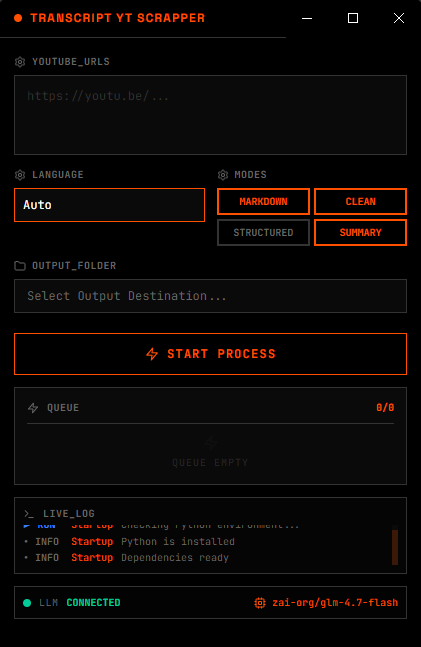
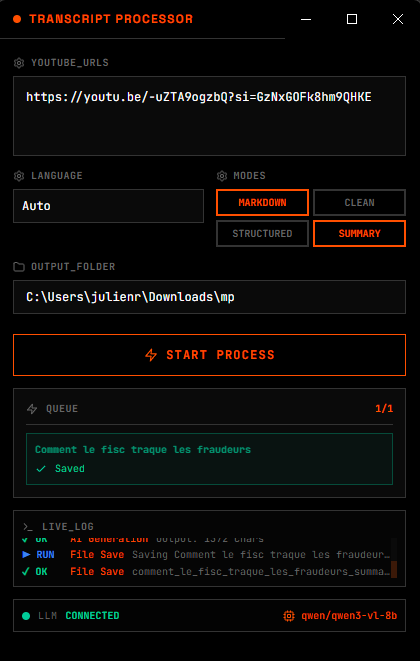
Update UI preview and increase window height

diff --git a/electron/main.ts b/electron/main.ts
@@ -288,7 +288,7 @@ async function ensurePythonDependencies() {
 function createWindow() {
     mainWindow = new BrowserWindow({
         width: 425,
-        height: 700,
+        height: 760,
         minWidth: 410,
         minHeight: 655,
         backgroundColor: '#000000', // Match tech-bg
